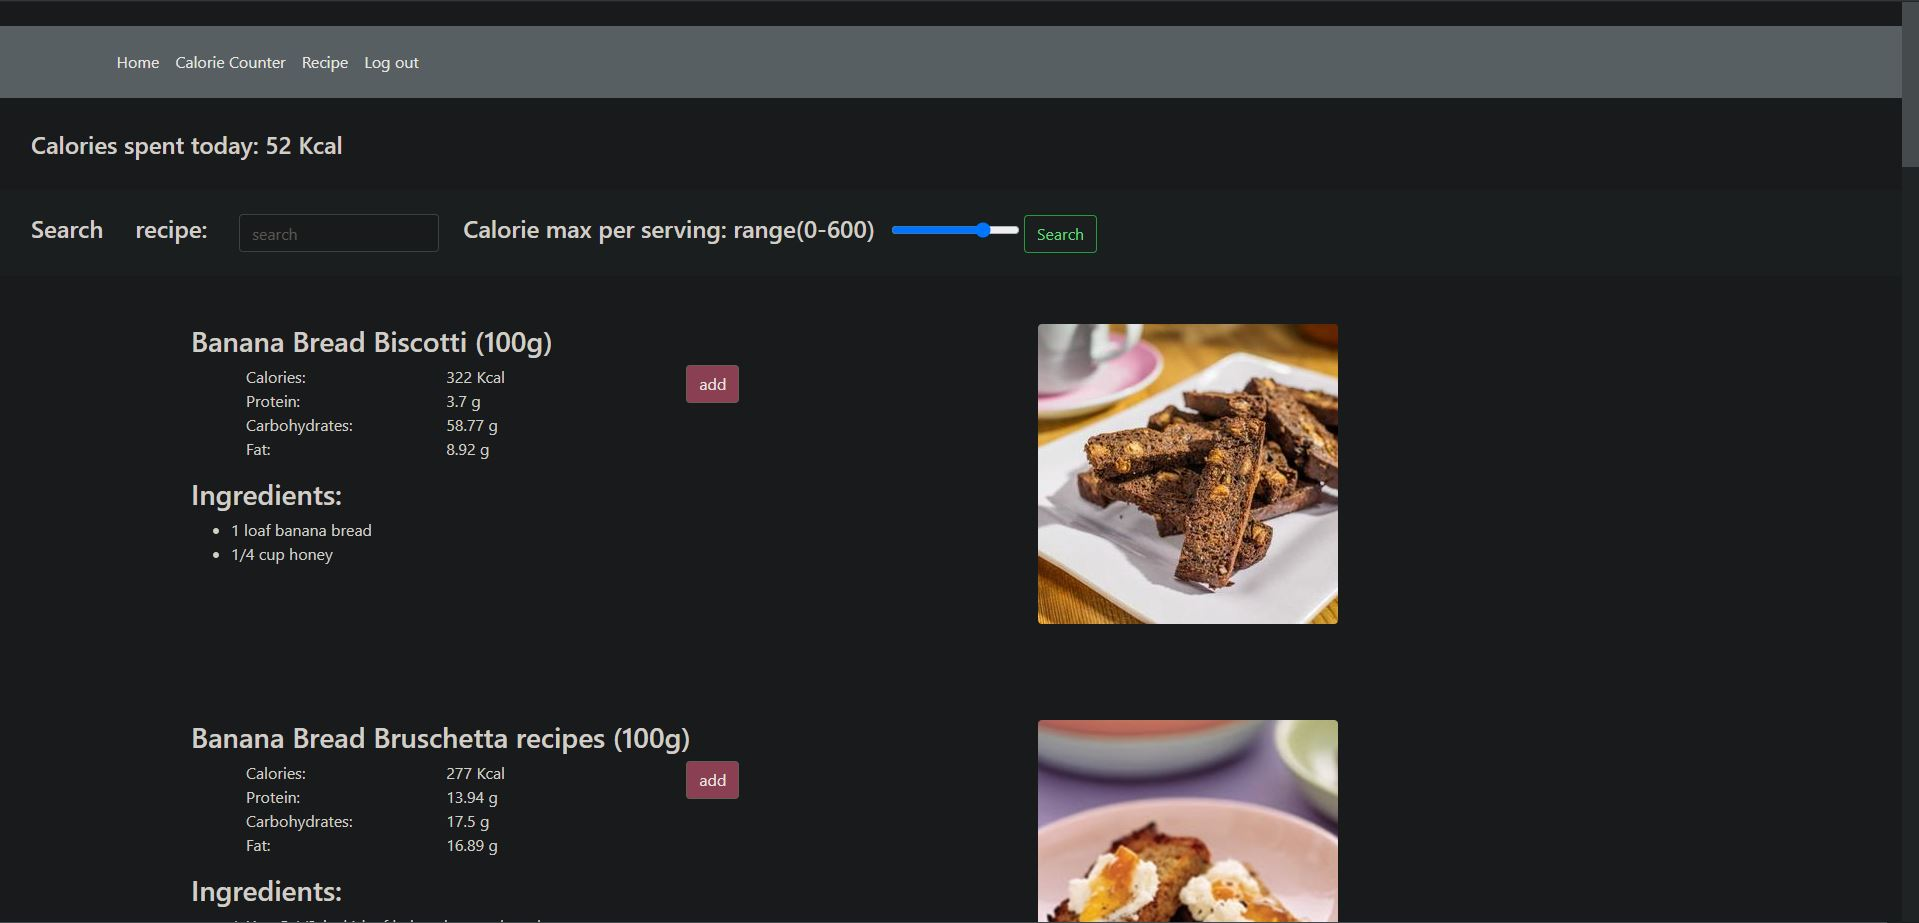
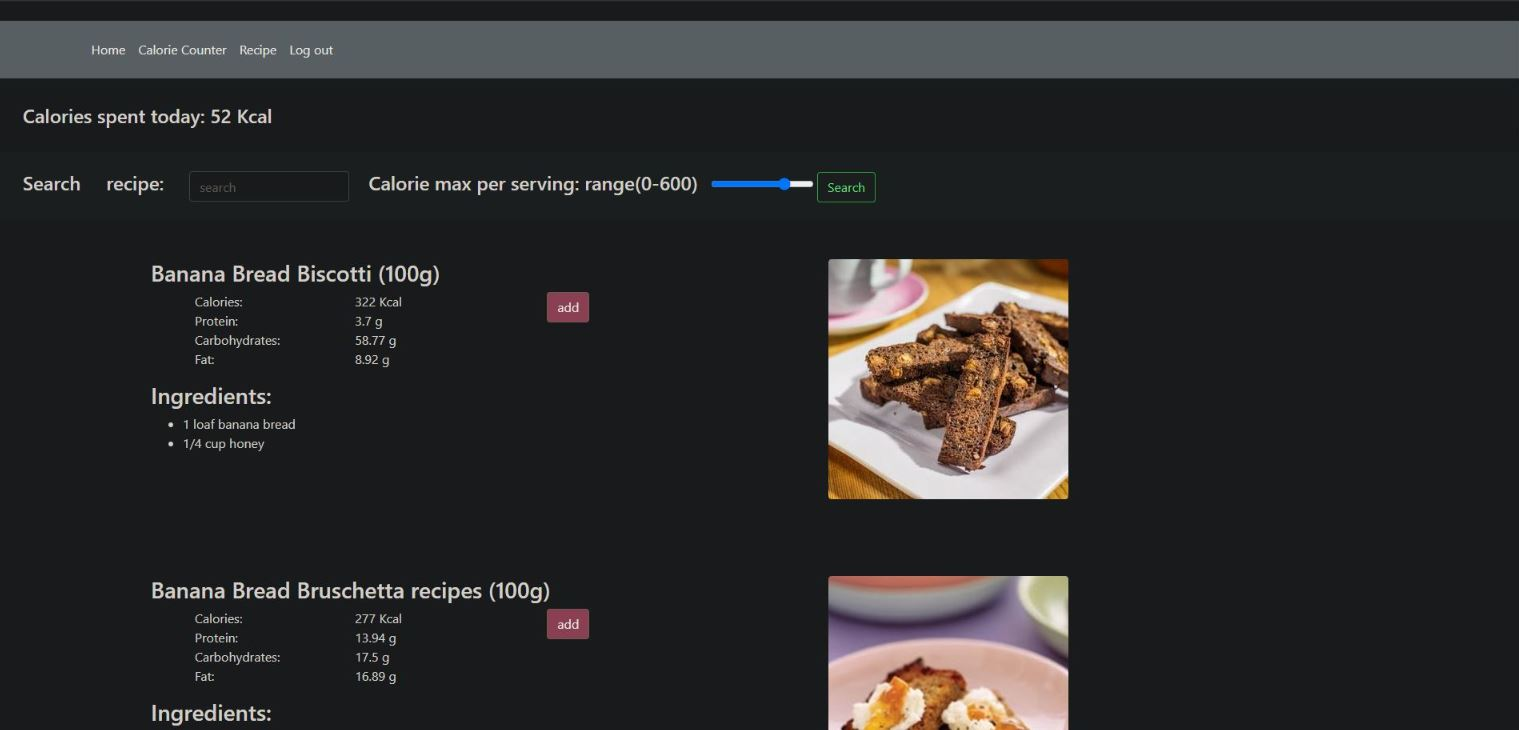
on my way to responsive

diff --git a/src/static/style.min.css b/src/static/style.min.css
@@ -8,10 +8,13 @@ body{
 #projectsLayout{
     display: flex;
     flex-direction: row;
+    align-items: center;
+    padding-right: 3%;
 }
 nav{
     display:flex;
     flex-direction:row;
+    align-items: center;
     
 }
 h1{
@@ -27,6 +30,14 @@ h5{
 }
 p{  
     text-align: justify;
+}
+#navp{
+
+    font-size:larger;
+    margin-bottom: 0%;
+    padding-top: 1%;
+    color:black;
+
 }
 #paraOne{
     padding-right:25%;
@@ -59,6 +70,10 @@ p{
     padding-right: 2%;
 }
 
+h6{
+    font-size:large;
+}
+
 #textColumn{
     display: flex;
     flex-direction: row;
@@ -79,25 +94,43 @@ p{
     height: 500px;
 }
 #contain{
-    margin:1%
+    margin:1%;
 }
-
+#projectWriting{
+    padding:6%;
+    padding-top:1%;
+}
 #picOne{
     height: 50vh;
     width: 30vw;
 }
 
-.carousel-item{
-    height: 32rem;
-    background-color: 777;
-}
 #carous-image{
     height: 50vh;
     width: 50vw;
 }
+#Playout{
+    padding-left: 5%;
+    padding-top: 0%;
+}
+.carousel-inner{
+    display: flex;
+    align-items:center;
+}
+.pt-3{
+    display: flex;
+    flex-direction:row;
+    justify-content: center;
+    align-items:center;
+}
 @media only screen and (max-width: 1000px) {
-    body {
-        background-image: none;  
+    
+    body{
+        width:120%;
+        background-image: none;
+    }
+    html{
+        width:120%;
     }
     h1{
         font-size:10vw;
@@ -132,6 +165,62 @@ p{
         width:100vw;
         justify-content:center;
         padding-right: 18%;
+    }
+    nav,#navhelp{
+        display: flex;
+        flex-direction:column;
+        align-items: center;
+    }
+    h1{
+        font-size:10vw;
+    }
+    h4{
+        font-size:5vw;
+    }
+    #textColumn{
+        display: flex;
+        flex-direction: column;
+        width:100vw;
+        justify-content:center;      
+    }
+    #section{
+        display: flex;
+        flex-direction:column;
+        width:100vw;
+        padding-right: 5%;
+        height: 100%;
+        overflow: hidden;  
+    }
+    #pic{
+        display: flex;
+        flex-direction: column;
+        width:100vw;
+        justify-content:center;
+        padding-right: 5%;
+    }
+    #picOne{
+        display: flex;
+        flex-direction: column;
+        width:100vw;
+        justify-content:center;
+        padding-right: 18%;
+    }
+    nav,#navhelp{
+        display: flex;
+        flex-direction:column;
+        align-items: center;
+    }
+    .carousel-inner{
+        width:100vw;
+    }
+    #navp{
+        font-size: small;
+    }
+    #projectsLayout{
+        display: flex;
+        flex-direction:column;
+        margin:0%;
+        padding:0;
     }
 }
 

diff --git a/src/templates/projects.html b/src/templates/projects.html
@@ -1,21 +1,23 @@
 {% extends "layout.html" %}
 {% block content %}
-<h5>Completed Projects</h5>
+<h5 class="pt-3">Completed Projects</h5>
 {% for i in range(0,projectData["intro"]| length) %}
 <section id="projectsLayout" class="pt-3 pb-3">
   <div class="col">
+    <div id="projectWriting">
     <h5>{{ projectData["heading"][i] }}</h5>
     <p>{{ projectData["intro"][i] }}</p>
     <h6>Front End:</h6>
-    <p>{{ projectData["frontend"][i] }}</p>
+    <p id="Playout">{{ projectData["frontend"][i] }}</p>
     <h6>Back End:</h6>
-    <p>{{ projectData["backend"][i] }}</p>
+    <p id="Playout">{{ projectData["backend"][i] }}</p>
     <h6>Cloud:</h6>
-    <p>{{ projectData["cloud"][i] }}</p>
+    <p id="Playout">{{ projectData["cloud"][i] }}</p>
     <h6>Dev ops:</h6>
-    <p>{{ projectData["devOps"][i] }}</p>
+    <p id="Playout">{{ projectData["devOps"][i] }}</p>
     <h6>Database:</h6>
-    <p>{{ projectData["database"][i] }}</p>
+    <p id="Playout">{{ projectData["database"][i] }}</p>
+  </div>
   </div>
   {% set carousel = "carousel"+ i|string %}
   <div id="{{ carousel }}" class="carousel slide col-6" data-bs-ride="carousel">
@@ -23,6 +25,9 @@
       <button type="button" data-bs-target="#{{ carousel }}" data-bs-slide-to="0" class="active" aria-current="true" aria-label="Slide 0"></button>
       <button type="button" data-bs-target="#{{ carousel }}" data-bs-slide-to="1" aria-label="Slide 1"></button>
       <button type="button" data-bs-target="#{{ carousel }}" data-bs-slide-to="2" aria-label="Slide 2"></button>
+      {% if projectData['img4'][i] != None %}
+        <button type="button" data-bs-target="#{{ carousel }}" data-bs-slide-to="3" aria-label="Slide 3"></button>
+      {% endif %}
     </div>
     <div class="carousel-inner">
       <div class="carousel-item active">
@@ -34,6 +39,11 @@
       <div class="carousel-item">
         <img id="carous-image" src="{{ url_for('static',filename=projectData['img3'][i]) }}" class="d-block" alt="...">
       </div>
+      {% if projectData['img4'][i] != None %}
+      <div class="carousel-item">
+        <img id="carous-image" src="{{ url_for('static',filename=projectData['img4'][i]) }}" class="d-block" alt="...">
+      </div>
+      {% endif %}
     </div>
     <button class="carousel-control-prev" type="button" data-bs-target="#{{ carousel }}"data-bs-slide="prev">
       <span class="carousel-control-prev-icon" aria-hidden="true"></span>

diff --git a/src/templates/layout.html b/src/templates/layout.html
@@ -13,9 +13,6 @@
   <body>
     <nav class="navbar navbar-expand-lg navbar-light bg-light">
         <a class="navbar-brand" href="../home">Scott Malone</a>
-        <button class="navbar-toggler" type="button" data-toggle="collapse" data-target="#navbarNav" aria-controls="navbarNav" aria-expanded="false" aria-label="Toggle navigation">
-          <span class="navbar-toggler-icon"></span>
-        </button>
         <div class="collapse navbar-collapse" id="navbarNav">
           <ul class="navbar-nav">
             <li class="nav-item">
@@ -26,7 +23,8 @@
             </li>
           </ul>
         </div>
-        <div class="d-flex justify-content-end nav-item">
+        <div id="navhelp"class="d-flex justify-content-end nav-item">
+          <p id="navp">scott.malone.softwaredev@gmail.com</p>
           <a class="nav-link" href="https://github.com/ScottBurleighHeads">
             <img src="https://img.shields.io/badge/GitHub-100000?style=for-the-badge&logo=github&logoColor=white" >
           </a>
@@ -34,6 +32,9 @@
         <div class="d-flex justify-content-end nav-item">
           <a class='nav-link fab fa-linkedin' style='font-size:36px' href="https://au.linkedin.com/in/scottmatmalone?trk=profile-badge"></a>
         </div>
+        <button class="navbar-toggler" type="button" data-toggle="collapse" data-target="#navbarNav" aria-controls="navbarNav" aria-expanded="false" aria-label="Toggle navigation">
+          <span class="navbar-toggler-icon"></span>
+        </button>
       </nav>
       <script src="https://platform.linkedin.com/badges/js/profile.js" async defer type="text/javascript"></script>
       

diff --git a/src/controllers/project.py b/src/controllers/project.py
@@ -26,8 +26,8 @@ def projectIndex():
         "cloud":[
             "To save cost I have deployed this website using an S3 bucket on AWS." 
             "Using an S3 bucket dramatically decrease's expense's compared to an EC2.",
-            "I temporarily deployed the website on an EC2 hosted by AWS. I set up a PostgreSQL server"
-            "on a RDS using AWS."
+            "I temporarily deployed the website on an EC2 hosted by AWS. I set up a PostgreSQL server "
+            "that was running on an RDS using AWS."
         ],
         "devOps":[
             "Established a CI/CD pipeling with github actions.",
@@ -47,7 +47,11 @@ def projectIndex():
         ],
         "img3":[
             'img/about2.JPG',
-            'img/calorieCount2.JPG'
+            'img/Recipe1.JPG'
+        ],
+        "img4":[
+            None,
+            'img/LogIn.JPG'
         ]
         }
     print(len(projectData["intro"]))
